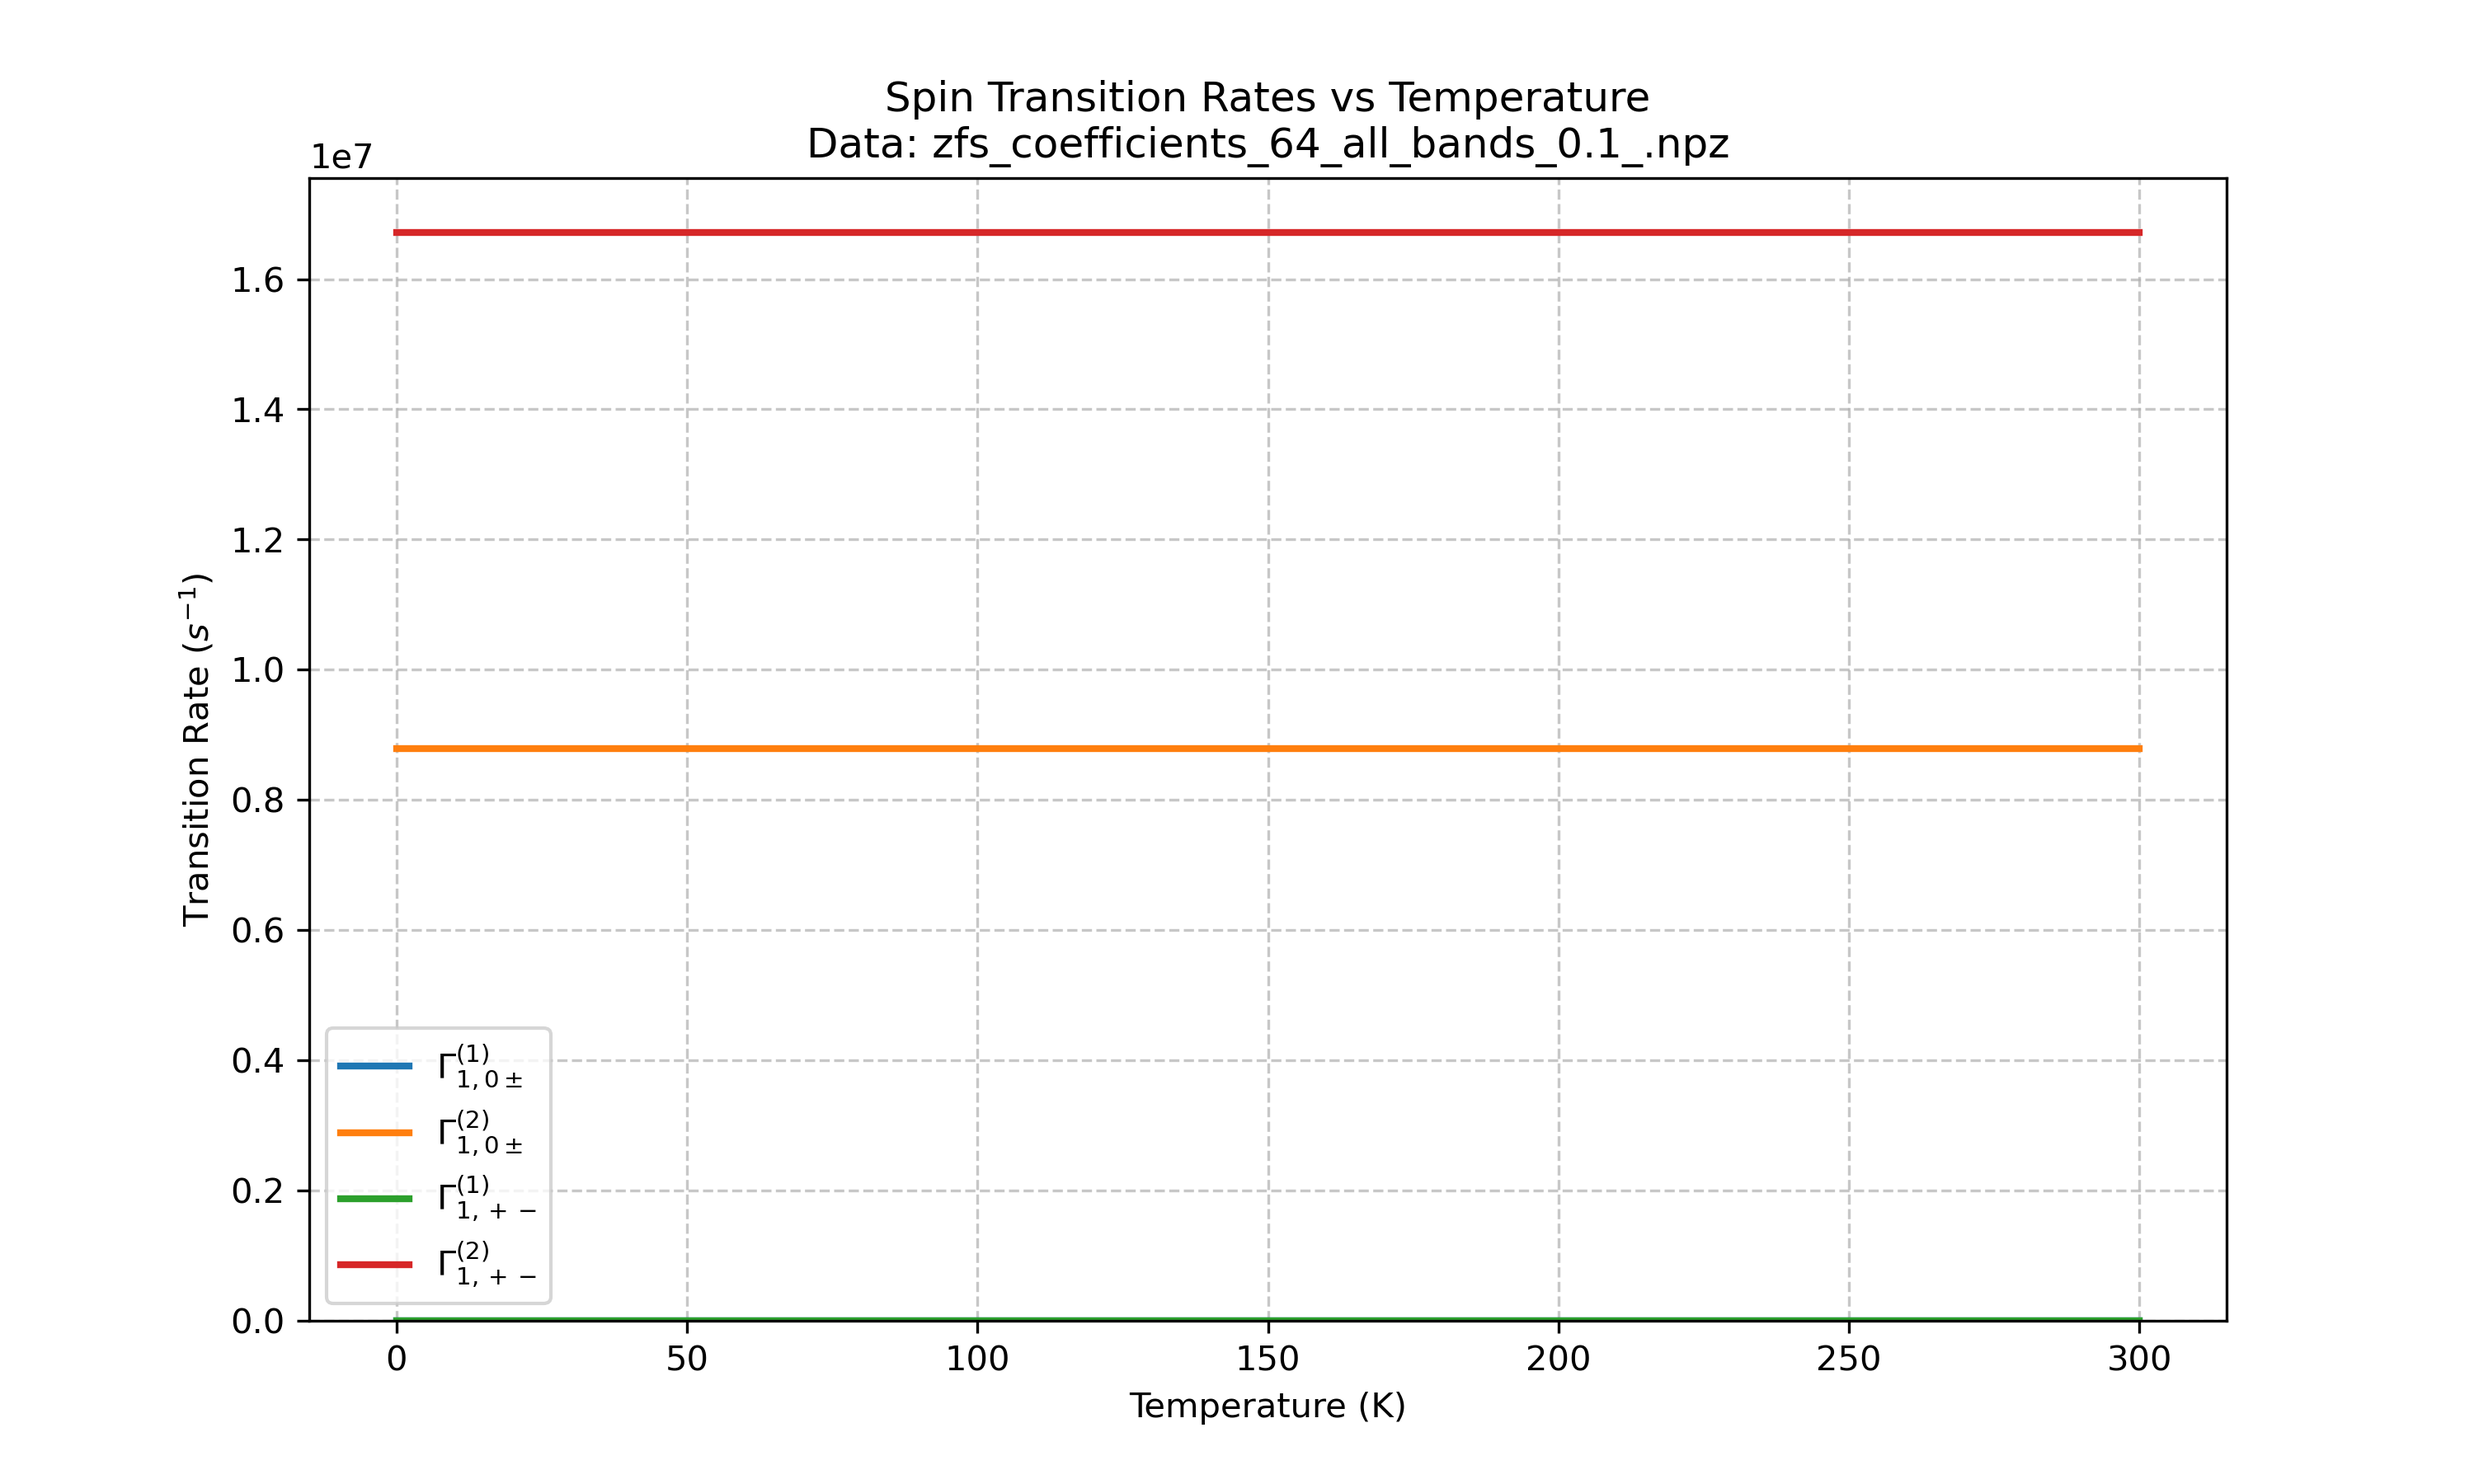
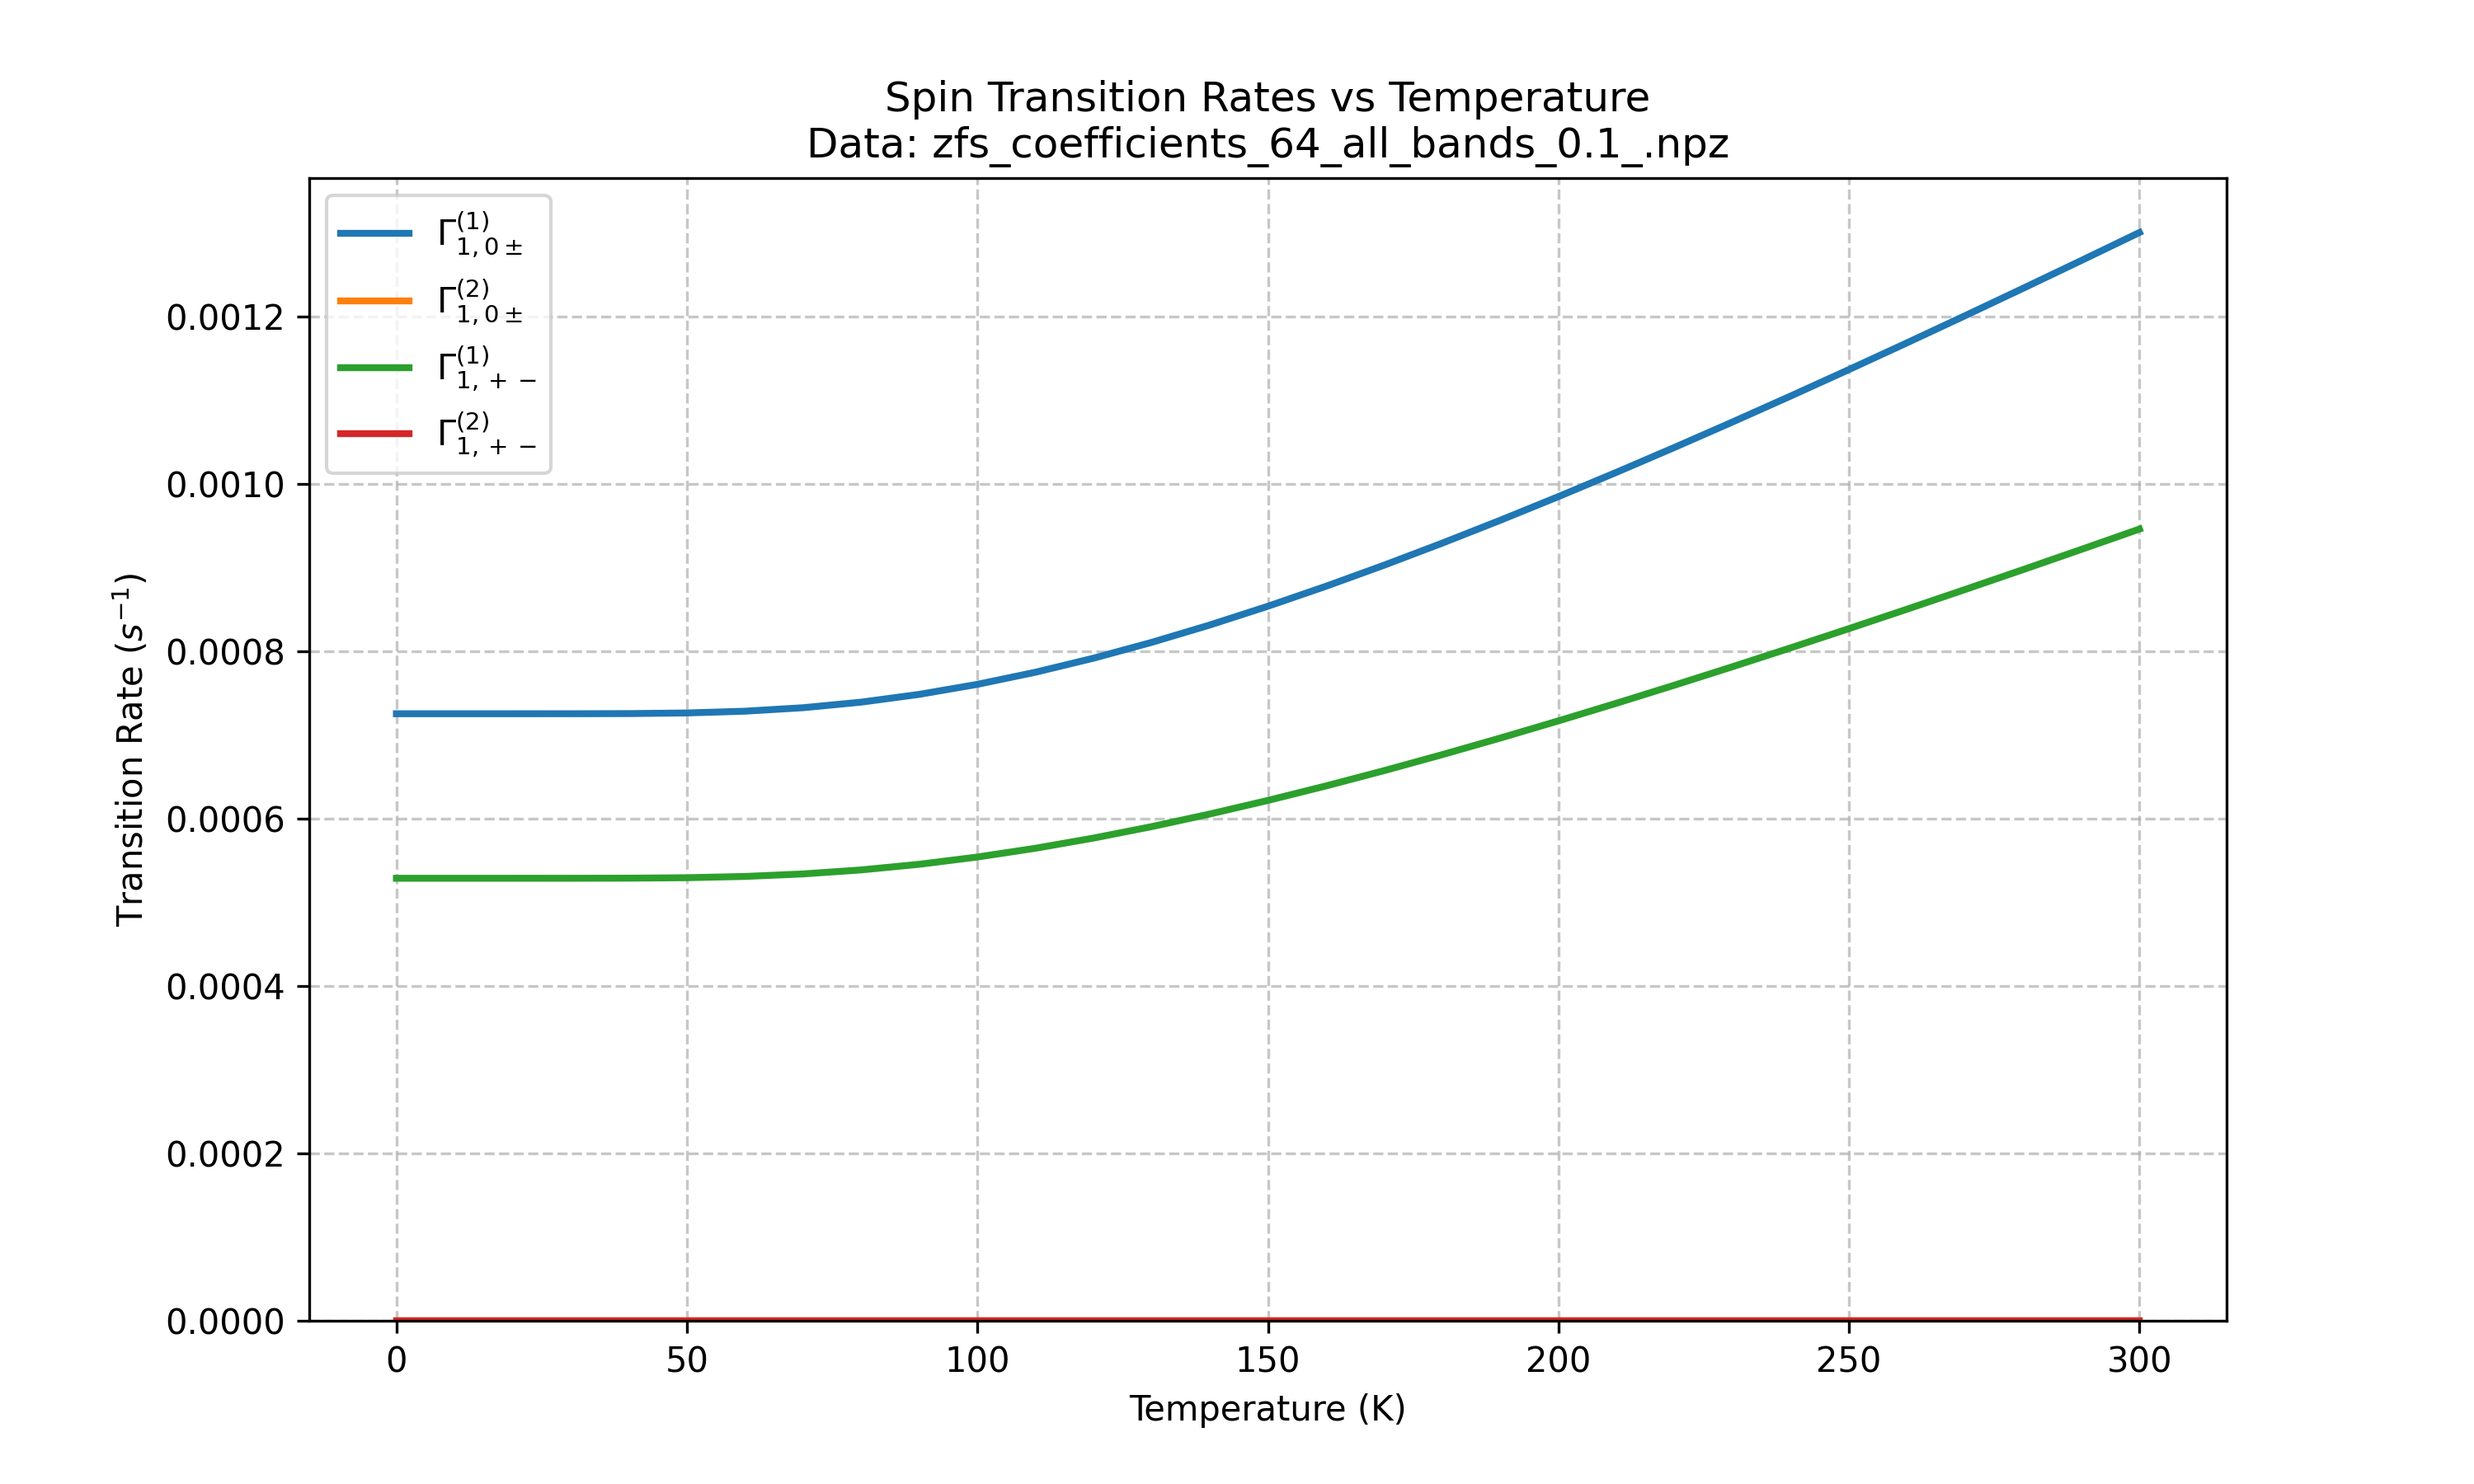
Working on transition rates

diff --git a/src/beyblade/transition_rate.py b/src/beyblade/transition_rate.py
@@ -13,13 +13,39 @@ PHONON_PROCESSES = {
     "em_em":   (-1, -1),
 }
 
-def _bose_factors_2ph(n_l, n_lp):
+class Phonons:
+  @staticmethod
+  def bose_einstein(omega: np.ndarray, T: float) -> np.ndarray:
+    if T <= 0:
+      return np.zeros_like(omega)
+    kB = Cn.k / Cn.e * 1000
+    x = omega / (kB * T)
+    n = np.zeros_like(omega)
+    mask = x > 1e-5
+    n[mask] = 1.0 / (np.exp(x[mask]) - 1.0)
+    return n
+
+  @staticmethod
+  def _bose_factors_2ph(n_l, n_lp):
     return {
-        "abs_em":  n_l       * (n_lp + 1),
-        "em_abs":  (n_l + 1) * n_lp,
-        "abs_abs": n_l       * n_lp,
-        "em_em":   (n_l + 1) * (n_lp + 1),
+      "abs_em":  n_l       * (n_lp + 1),
+      "em_abs":  (n_l + 1) * n_lp,
+      "abs_abs": n_l       * n_lp,
+      "em_em":   (n_l + 1) * (n_lp + 1),
     }
+
+  @staticmethod
+  def bose_einstein_2d(omega: np.ndarray, T: float) -> np.ndarray:
+    n = Phonons.bose_einstein(omega, T)
+
+    # outer products: shape (N, N)
+    N_l  = n[None, :]
+    N_lp = n[:, None]
+
+    bose  = Phonons._bose_factors_2ph(N_l, N_lp)
+
+    return bose
+
 
 class TransitionRate:
   def __init__(self, data_file: str | None=None, two_phonon_data_file: Path | None=None):
@@ -40,16 +66,6 @@ class TransitionRate:
 
   def load_data(self, filename: str) -> None:
     self.data = np.load(filename)
-
-  def bose_einstein(self, omega: np.ndarray, T: float) -> np.ndarray:
-    if T <= 0:
-      return np.zeros_like(omega)
-    kB = Cn.k / Cn.e * 1000
-    x = omega / (kB * T)
-    n = np.zeros_like(omega)
-    mask = x > 1e-5
-    n[mask] = 1.0 / (np.exp(x[mask]) - 1.0)
-    return n
 
   def get_spectral_density(self, V_key: str, res: float, sigma: float) -> tuple[np.ndarray, np.ndarray]:
     if self.data is None:
@@ -81,9 +97,9 @@ class TransitionRate:
 
     freqs = self.data["freqs"]  # raw mode frequencies (N_modes,)
 
-    V_0_pm_2ph = self.get_2ph_coupling("V_0_pm_2ph")
-    V_p_m_2ph  = self.get_2ph_coupling("V_p_m_2ph")
-    V_0_0_2ph  = self.get_2ph_coupling("V_0_0_2ph")
+    V_0_pm_2ph = self.get_2ph_coupling("V_0_pm")
+    V_p_m_2ph  = self.get_2ph_coupling("V_p_m")
+    V_0_0_2ph  = self.get_2ph_coupling("V_0_")
     omega_x, omega_y, J_0_pm     = MathUtils.get_2d_spectral_density(freqs, V_0_pm_2ph, sigma, 1)
     _, _, J_p_m      = MathUtils.get_2d_spectral_density(freqs, V_p_m_2ph, sigma, 1)
     _, _, J_0_0_base = MathUtils.get_2d_spectral_density(freqs, V_0_0_2ph, sigma, 1)
@@ -95,16 +111,11 @@ class TransitionRate:
       if diff == 1: return J_0_pm
       if diff == 2: return J_p_m
       return np.zeros_like(omega_x)
-    
-    n = self.bose_einstein(omega_x[:,0], T)
+
     mask = (omega_x > 0.1) & (omega_y > 0.1)
+    bose = Phonons.bose_einstein_2d(omega_x[0, :], T)
 
-    # outer products: shape (N, N)
-    N_l  = n[:, None]
-    N_lp = n[None, :]
-    bose  = _bose_factors_2ph(N_l, N_lp)
-
-    f2ph     = (2 * np.pi / Cn.hbar) * CONSTANTS["meV2J"]
+    f2ph     = (2 * np.pi / Cn.hbar) * CONSTANTS["meV2J"]**2 * res**2
 
     for ms in self.ms_values:
       for ms_prime in self.ms_values:
@@ -114,6 +125,7 @@ class TransitionRate:
         rate_key = f"{ms}_to_{ms_prime}"
         #V2 = np.abs(self._get_V2ph(ms_prime, ms, V_0_pm_2ph, V_p_m_2ph, V_0_0_2ph)[np.ix_(mask, mask)])**2
         J = get_J_path(ms_prime, ms)
+        print("Spectral function: ", J.shape)
         J_m = J[mask]
         total = 0.0
 
@@ -150,18 +162,16 @@ class TransitionRate:
       if diff == 2: return J_p_m
       return np.zeros_like(omega)
 
-    meV2J    = 1e-3 * Cn.e
-    GHz2meV  = Cn.h * 1e9 / meV2J
-    omega_spin_meV = 2.87 * GHz2meV
-    n        = self.bose_einstein(omega, T)
+    omega_spin_meV = 2.87 * CONSTANTS["GHz2meV"]
+    n        = Phonons.bose_einstein(omega, T)
     mask     = omega > 0.1
     delta = MathUtils.broad_delta(omega, omega_spin_meV, sigma)
 
-    f1_factor = (2 * np.pi / Cn.hbar) * meV2J * res
+    f1_factor = (2 * np.pi / Cn.hbar) * CONSTANTS["meV2J"] * res
     self.transition_rate["first_order"]["0_to_1"]  = f1_factor * np.sum(J_0_pm[mask] * (2 * n[mask] + 1) * delta[mask]) * 4
     self.transition_rate["first_order"]["1_to_-1"] = f1_factor * np.sum(J_p_m[mask] * (2 * n[mask] + 1) * delta[mask]) * 2
 
-    f2_factor = (4 * np.pi / Cn.hbar) * res * meV2J
+    f2_factor = (4 * np.pi / Cn.hbar) * res * CONSTANTS["meV2J"]
     for ms in self.ms_values:
       for ms_prime in self.ms_values:
         if ms == ms_prime:

diff --git a/scripts/plot_bose.py b/scripts/plot_bose.py
@@ -1,0 +1,29 @@
+import sys
+from matplotlib import pyplot as plt
+import numpy as np
+
+from beyblade.transition_rate import Phonons
+
+data = np.load(sys.argv[1], allow_pickle=True)
+omega = data["freqs"]
+
+T = 100
+
+n = Phonons.bose_einstein(omega, T)
+
+omega_x, omega_y = np.meshgrid(omega, omega)
+print("omega_x: ", omega_x.shape)
+
+n2 = Phonons.bose_einstein_2d(omega_x[0, :], T)
+print("n2: ", n2["abs_em"].shape)
+
+fig, ax = plt.subplots()
+ax.plot(omega, n)
+fig2, ax2 = plt.subplots()
+
+ax2.set_xlabel(r"$\omega_l$")
+ax2.set_ylabel(r"$\omega_{l'}$")
+mesh = ax2.pcolormesh(omega_x, omega_y, n2["abs_abs"], cmap="viridis", shading="auto")
+cbar = fig2.colorbar(mesh, ax=ax2)
+
+plt.show()

diff --git a/scripts/plot_transition_rates.py b/scripts/plot_transition_rates.py
@@ -9,7 +9,7 @@ import sys
 sys.path.append(str(Path(__file__).parent))
 
 try:
-    from transition_rate import TransitionRate
+    from beyblade.transition_rate import TransitionRate
 except ImportError:
     print("Error: Could not import TransitionRate class. Ensure transition_rate.py is in the same directory.")
     sys.exit(1)

diff --git a/src/beyblade/constants.py b/src/beyblade/constants.py
@@ -6,6 +6,7 @@ CONSTANTS = {
     "ang_amu2SI": np.sqrt(Cn.physical_constants["atomic mass constant"][0]) * 1e-10,
     "meV2rads": 1e-3 * Cn.e / Cn.hbar,
     "MHz2meV": Cn.h * 1e6 / (Cn.e * 1e-3),
+    "GHz2meV": Cn.h * 1e9 / (Cn.e * 1e-3),
     "THz2meV": Cn.h * 1e12 / (Cn.e * 1e-3),
     "meV2J": 1e-3 * Cn.e
 }
